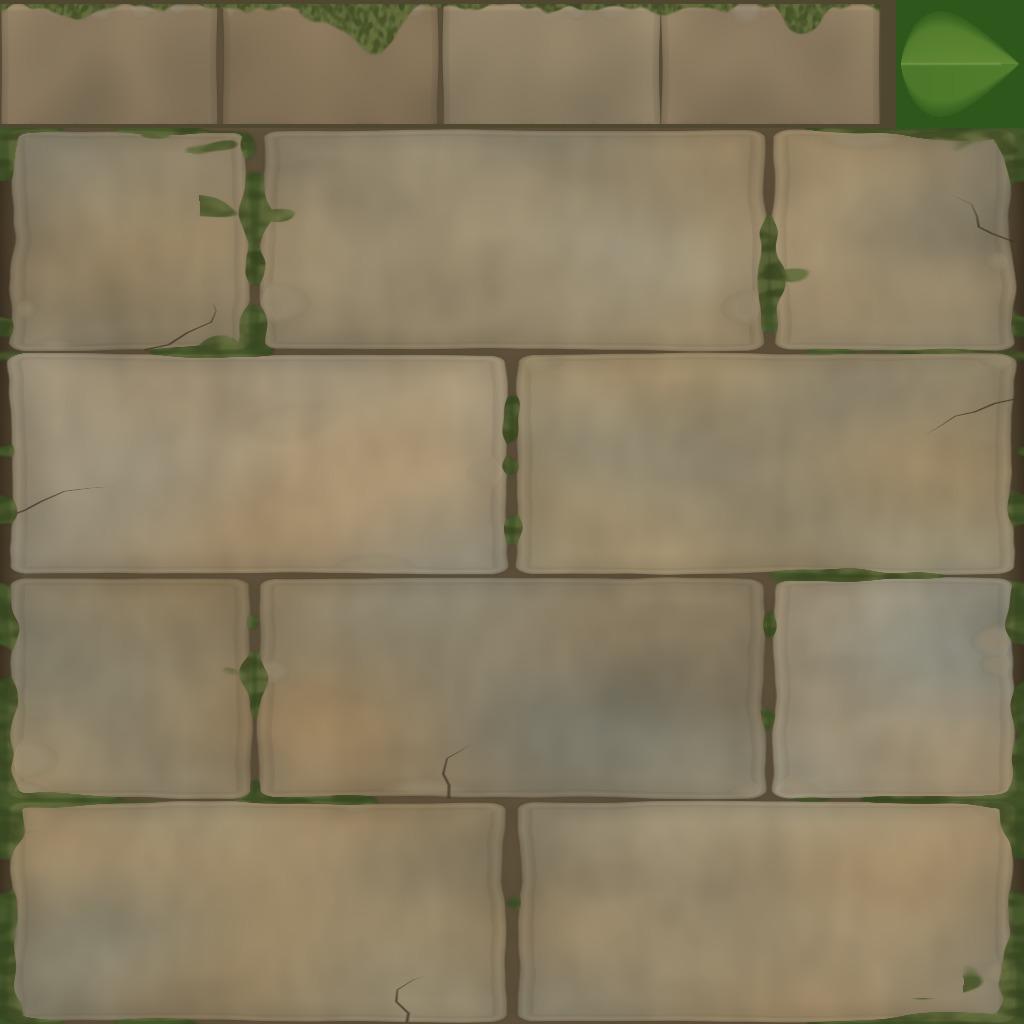
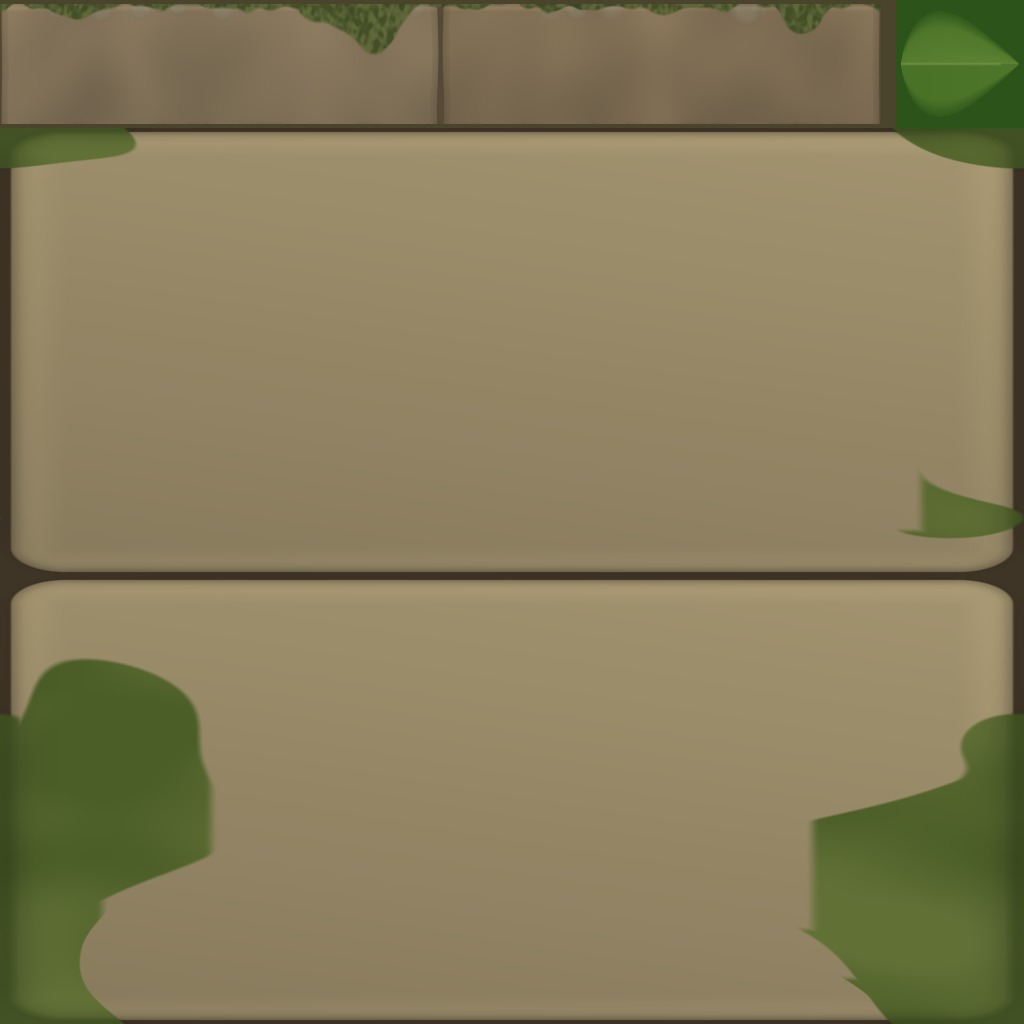
Dirección de arte limpia: losas grandes por carril, sol fijo en la pista con sombras de color, sol por mundo y virado partido

diff --git a/app/src/render/index.js b/app/src/render/index.js
@@ -26,10 +26,10 @@ const DEG = Math.PI / 180;
 const INV_FOG = new THREE.Color(0x0b0822);
 const BOOST_BLUE = new THREE.Color(0x3fb6ff).multiplyScalar(2);
 const GradeShader = {
-  uniforms: { tDiffuse: { value: null }, uBlur: { value: 0 }, uFlash: { value: new THREE.Vector4(1, 1, 1, 0) }, uVig: { value: 0.1 }, uCA: { value: 0.0 }, uVigCol: { value: new THREE.Color(0x2b2257) }, uTime: { value: 0 }, uSat: { value: 1.14 }, uCon: { value: 1.12 } },
+  uniforms: { tDiffuse: { value: null }, uBlur: { value: 0 }, uFlash: { value: new THREE.Vector4(1, 1, 1, 0) }, uVig: { value: 0.1 }, uCA: { value: 0.0 }, uVigCol: { value: new THREE.Color(0x2b2257) }, uTime: { value: 0 }, uSat: { value: 1.14 }, uCon: { value: 1.12 }, uLo: { value: new THREE.Color(0.95, 0.98, 1.07) }, uHi: { value: new THREE.Color(1.05, 1.0, 0.93) } },
   vertexShader: 'varying vec2 vUv; void main(){ vUv = uv; gl_Position = projectionMatrix * modelViewMatrix * vec4(position, 1.0); }',
   fragmentShader: /* glsl */`
-    uniform sampler2D tDiffuse; uniform float uBlur; uniform vec4 uFlash; uniform float uVig; uniform float uCA; uniform float uTime; uniform float uSat; uniform vec3 uVigCol; uniform float uCon;
+    uniform sampler2D tDiffuse; uniform float uBlur; uniform vec4 uFlash; uniform float uVig; uniform float uCA; uniform float uTime; uniform float uSat; uniform vec3 uVigCol; uniform float uCon; uniform vec3 uLo; uniform vec3 uHi;
     varying vec2 vUv;
     void main(){
       vec2 c = vec2(0.5, 0.52); vec2 d = vUv - c; float r = length(d);
@@ -42,6 +42,8 @@ const GradeShader = {
       vec3 col = acc / tot;
       float l = dot(col, vec3(0.2126, 0.7152, 0.0722)); col = mix(vec3(l), col, uSat);
       col = max(vec3(0.0), (col - 0.18) * uCon + 0.18);                 // contraste alrededor del gris medio (lineal)
+      // virado partido: sombras hacia el frío, luces hacia el cálido (luz de tarde estilizada)
+      col *= mix(uLo, uHi, smoothstep(0.03, 0.5, dot(col, vec3(0.2126, 0.7152, 0.0722))));
       col = mix(col, col * uVigCol * 1.6, uVig * smoothstep(0.35, 0.95, r * 1.25));
       col = mix(col, uFlash.rgb, uFlash.a);
       gl_FragColor = vec4(col, 1.0);
@@ -135,6 +137,9 @@ export class Renderer {
     u.uDark.value = (A.dark || 0) + ((B.dark || 0) - (A.dark || 0)) * t;
     styleUniforms.uShadowCol.value.set(A.shadow || 0x6d5fc4).lerp(new THREE.Color(B.shadow || 0x6d5fc4), t);
     styleUniforms.uRimCol.value.set(A.rim || 0xbfe8ff).lerp(new THREE.Color(B.rim || 0xbfe8ff), t);
+    // sol con el color de cada mundo (dorado, rosado, frío de noche…)
+    const ka = A.sunK || [1.15, 1, 0.8], kb = B.sunK || [1.15, 1, 0.8];
+    styleUniforms.uSunCol.value.setRGB(ka[0] + (kb[0] - ka[0]) * t, ka[1] + (kb[1] - ka[1]) * t, ka[2] + (kb[2] - ka[2]) * t);
     u.uInvBase.value.set(A.inv || 0x13112a).lerp(new THREE.Color(B.inv || 0x13112a), t);
     this.sky.setTheme(A, B, t);
     this.decor.setTheme(t < 0.5 ? A : B);
@@ -269,10 +274,17 @@ export class Renderer {
 
     // ---- mundo
     this.tunnel.uniforms.uCam.value.copy(cam.position);
-    // la luz principal va con la cámara (arriba, algo por detrás y a la izquierda): la cara por la
-    // que corres siempre queda bien iluminada, dentro o fuera del tubo
+    // sol fijo en el marco de la pista (arriba del tubo, algo a la izquierda y por detrás): el suelo
+    // recibe sol cálido y el techo queda en sombra fría de color, así las formas grandes (losas,
+    // biseles, arcos) tienen volumen y al girar alrededor del tubo cambia la luz. Una parte sigue a
+    // la cámara (la mitad dentro, el 80 % por fuera) para que la cara por la que corres no quede en
+    // sombra (legibilidad).
     const right = new THREE.Vector3().crossVectors(this.look, this.upS).normalize();
-    this.tunnel.uniforms.uKey.value.copy(this.upS).multiplyScalar(0.85).addScaledVector(this.look, -0.35).addScaledVector(right, -0.4).normalize();
+    const camKey = new THREE.Vector3().copy(this.upS).multiplyScalar(0.85).addScaledVector(this.look, -0.35).addScaledVector(right, -0.4).normalize();
+    const trackKey = new THREE.Vector3().copy(fr.U).multiplyScalar(0.8).addScaledVector(fr.X, -0.5).addScaledVector(fr.F, -0.3).normalize();
+    const outsideK = game.fold < 29 ? 0.8 : 0.5;         // por fuera, tu cara casi siempre al sol
+    this.keyFollow = this.keyFollow === undefined ? outsideK : this.keyFollow + (outsideK - this.keyFollow) * Math.min(1, dt * 1.5);
+    this.tunnel.uniforms.uKey.value.copy(trackKey).lerp(camKey, this.keyFollow).normalize();
     cam.updateMatrixWorld();
     styleUniforms.uSunDirV.value.copy(this.tunnel.uniforms.uKey.value).transformDirection(cam.matrixWorldInverse);
     const gapNear = game.gaps.some((g) => g.from - s < 34 && g.to - s > -6);

diff --git a/app/src/render/worlds.js b/app/src/render/worlds.js
@@ -2,19 +2,19 @@
 // Regla 2: el túnel siempre casi neutro, el color vivo es solo para los avisos.
 export const THEMES = [
   // Islas del cielo: piedra arenisca clara, musgo, cristales turquesa, cascadas y castillos
-  { name: 'Islas del cielo', base: 0xe8d5ad, base2: 0xbfa57a, seam: 0x6b5a3e, fog: 0xbfe0ff, glow: 0x5ff5e0, moss: 0x5fae3a, shadow: 0x9d8fe0, rim: 0xcfeeff,
+  { name: 'Islas del cielo', base: 0xe8d5ad, base2: 0xbfa57a, seam: 0x6b5a3e, fog: 0xbfe0ff, glow: 0x5ff5e0, moss: 0x5fae3a, shadow: 0x9d8fe0, rim: 0xcfeeff, sunK: [1.18, 1.0, 0.78],
     skyTop: 0x3f8fff, skyMid: 0xbfe0ff, skyBot: 0xf4f8ff, sun: 0xfff2c8, stars: 0, decor: 'sky', pano: 'islas' },
   // Selva: piedra más verde y húmeda, niebla verde azulada
-  { name: 'Selva perdida', base: 0xe2d8b8, base2: 0xb9ad86, seam: 0x4d5a36, fog: 0xbfe6d0, glow: 0x9dffb0, moss: 0x3f9a2e, shadow: 0x6f9fb8, rim: 0xd8ffe0,
+  { name: 'Selva perdida', base: 0xe2d8b8, base2: 0xb9ad86, seam: 0x4d5a36, fog: 0xbfe6d0, glow: 0x9dffb0, moss: 0x3f9a2e, shadow: 0x6f9fb8, rim: 0xd8ffe0, sunK: [1.1, 1.06, 0.8],
     skyTop: 0x4aa3d8, skyMid: 0xbfe6d0, skyBot: 0xe8f6e4, sun: 0xfff6d0, stars: 0, decor: 'sky', pano: 'selva' },
   // Noche bioluminiscente: piedra oscura, juntas y cristales cian que brillan
-  { name: 'Noche de luciérnagas', base: 0xd8d4e8, base2: 0xa9a4c4, seam: 0x2a2a50, fog: 0x1c2a5e, glow: 0x3ff5e0, moss: 0x2f8f7a, shadow: 0x1a2a60, rim: 0x5ff5e0,
+  { name: 'Noche de luciérnagas', base: 0xd8d4e8, base2: 0xa9a4c4, seam: 0x2a2a50, fog: 0x1c2a5e, glow: 0x3ff5e0, moss: 0x2f8f7a, shadow: 0x1a2a60, rim: 0x5ff5e0, sunK: [0.8, 0.95, 1.15],
     skyTop: 0x060a26, skyMid: 0x1c2a5e, skyBot: 0x2f5a7a, sun: 0xbff8ff, stars: 1, decor: 'neon', dark: 1, inv: 0x151b36, pano: 'noche' },
   // Templo al atardecer: arenisca dorada, luz naranja
-  { name: 'Templo del ocaso', base: 0xf6dcb0, base2: 0xd6a978, seam: 0x7a4a2e, fog: 0xff9f7a, glow: 0xffd27a, moss: 0x8aa83a, shadow: 0xa86fa8, rim: 0xffd8a0,
+  { name: 'Templo del ocaso', base: 0xf6dcb0, base2: 0xd6a978, seam: 0x7a4a2e, fog: 0xff9f7a, glow: 0xffd27a, moss: 0x8aa83a, shadow: 0xa86fa8, rim: 0xffd8a0, sunK: [1.26, 0.94, 0.72],
     skyTop: 0x6a4bc4, skyMid: 0xff9f7a, skyBot: 0xffd8a0, sun: 0xffb060, stars: 0.1, decor: 'sky', pano: 'templo' },
   // Volcán: piedra oscura rojiza con vetas de lava
-  { name: 'Islas de fuego', base: 0xe8d0c0, base2: 0xb89080, seam: 0x4a2020, fog: 0x8a3040, glow: 0xff8a3d, moss: 0x7a5a2a, shadow: 0x4a1a40, rim: 0xff9a60,
+  { name: 'Islas de fuego', base: 0xe8d0c0, base2: 0xb89080, seam: 0x4a2020, fog: 0x8a3040, glow: 0xff8a3d, moss: 0x7a5a2a, shadow: 0x4a1a40, rim: 0xff9a60, sunK: [1.25, 0.86, 0.72],
     skyTop: 0x2a1030, skyMid: 0x8a3040, skyBot: 0xff8a50, sun: 0xffb070, stars: 0.3, decor: 'space', dark: 1, inv: 0x2a1418, pano: 'volcan' },
 ];
 

diff --git a/app/src/render/stylize.js b/app/src/render/stylize.js
@@ -10,7 +10,7 @@ export const styleUniforms = {
   uSunCol: { value: new THREE.Color(1.15, 1.0, 0.8) },    // sol dorado (concepto C·3)
   uShadowCol: { value: new THREE.Color(0x6d5fc4) },
   uRimCol: { value: new THREE.Color(0xbfe8ff) },
-  uStyl: { value: 0.8 },
+  uStyl: { value: 0.9 },
 };
 
 // Encadena con un onBeforeCompile previo (si lo hay).
@@ -26,9 +26,13 @@ export function stylize(mat, { rim = 0.35, key = 'st' } = {}) {
   vec3 Nv = normalize(normal); vec3 Vv = normalize(vViewPosition);
   float ndl = dot(Nv, normalize(uSunDirV));
   // en un túnel el techo recibe mucha luz rebotada: la sombra no llega nunca al tono puro
-  float sh = smoothstep(0.3, -0.45, ndl) * 0.7;
+  float sh = smoothstep(0.35, -0.35, ndl) * 0.85;
   vec3 base = diffuseColor.rgb;
-  vec3 st = mix(base * uSunCol, base * uShadowCol, sh);
+  // cara al sol: cálida y algo más brillante cuanto más de frente (da volumen a biseles y losas)
+  // sombra con color propio (no solo más oscura): el tono frío del mundo tiñe también la luz
+  // ambiente, como en la ilustración estilizada
+  vec3 shade = base * uShadowCol * 1.02 + uShadowCol * 0.09;
+  vec3 st = mix(base * uSunCol * (0.9 + 0.3 * max(ndl, 0.0)), shade, sh);
   #ifdef USE_AOMAP
   st *= mix(1.0, ambientOcclusion, 0.85);
   #endif

diff --git a/tools/blender/build_tunnel_kit.py b/tools/blender/build_tunnel_kit.py
@@ -52,10 +52,10 @@ JE = [-HW, -0.345, 0.345, HW]     # juntas hiladas pares
 JO = [-HW, -0.69, 0.0, 0.69, HW]  # juntas hiladas impares (aparejo a soga)
 # sillería de la textura: losas grandes, una por carril y hilada (el concepto C·3); a ladrillitos
 # se leía recargado a toda velocidad. La geometría sigue usando CL (ventanas y cristales).
-TNC = 4
-TCL = L / TNC                     # 1 m por hilada
-TJE = [-HW, 0.0, HW]              # dos sillares por carril, a soga
-TJO = [-HW, -0.52, 0.52, HW]
+TNC = 2
+TCL = L / TNC                     # 2 m por losa (stone_top_formas; también recortes de las cajas)
+TJE = [-HW, HW]                   # una losa por carril
+TJO = [-HW, HW]
 G = 0.024                         # media llaga (referencia)
 GI, GS = 0.011, 0.022             # media llaga interior / en la costura de carril
 
@@ -408,6 +408,67 @@ def stone_top(seed=11):
     return A, N, AO, R
 
 
+def stone_top_formas(seed=11):
+    """Cara superior en "formas grandes" (dirección de arte limpia, a lo Alto / Mario Kart): una
+    losa por carril y hilada de 2 m, bisel ancho y redondo que pilla la luz, degradado suave en
+    cada losa, junta honda con oclusión marcada y musgo en manchas grandes pegadas a las juntas.
+    Sin grietas, desconchones ni ruido fino: a 100 m/s el detalle menudo solo se ve borroso o
+    hace ruido. Misma disposición del atlas que stone_top()."""
+    NX, NZr = RES, NZ
+    dx, dz = W / NX, L / NZr
+    X = -HW + (np.arange(NX) + 0.5) * dx
+    Z = (np.arange(NZr) + 0.5) * dz
+    XX, ZZ = np.meshgrid(X, Z)
+    XX = XX.astype(np.float32)
+    ZZ = ZZ.astype(np.float32)
+    rng = np.random.default_rng(seed)
+    shape = XX.shape
+    FL = L / 2                                        # 2 m por losa
+    course = np.floor(ZZ / FL).astype(np.int32) % 2
+    cz = (course + 0.5) * FL
+    lx, lz = XX, ZZ - cz
+    ax, az = HW - GS, FL / 2 - GI * 1.6
+    e = -rrect(lx, lz, ax, az, 0.11)                  # distancia al borde (m), > 0 dentro
+    bw = 0.10                                         # bisel ancho
+    t = np.clip(e / bw, 0, 1)
+    prof = np.sqrt(1 - (1 - t) ** 2)                  # canto redondo
+    tilt = rng.uniform(-0.004, 0.004, 2)
+    top = 0.014 + 0.006 * (1 - (lx / ax) ** 2) * (1 - (lz / az) ** 2) + tilt[course] * lz
+    GR = -0.03
+    H = np.where(e > 0, GR + (top - GR) * prof, GR).astype(np.float32)
+
+    # musgo: manchas grandes que nacen en las juntas y lamen un poco la losa
+    nm = pnoise(shape, dx, dz, 0.9, seed + 5)
+    nm2 = pnoise(shape, dx, dz, 0.35, seed + 6)
+    F = 0.9 * nm + 0.35 * nm2 - 0.2
+    # bordes nítidos (forma gráfica, no mancha borrosa)
+    moss = sstep(0.8, 0.84, F) * sstep(0.2, 0.17, e)
+    moss = np.maximum(moss, sstep(1.25, 1.3, nm) * sstep(0.42, 0.39, e))   # alguna lengua más larga
+    H = lerp(H, np.maximum(H, GR + 0.02), moss).astype(np.float32)
+
+    # albedo: arenisca clara, cada losa con su tono y un degradado suave; canto más claro
+    pal = np.stack([srgb(c) for c in ('#e3cf9f', '#dcc796', '#e6d4a8')])
+    pidx = rng.integers(0, len(pal), 2)
+    base = pal[pidx[course]]
+    grad = 1 + 0.07 * (lz / az) + 0.025 * (lx / ax)
+    A = base * grad[..., None]
+    edge = sstep(0.0, 0.03, e) * sstep(bw + 0.02, 0.02, e)
+    A = A * (1 + 0.10 * edge)[..., None]
+    grout = srgb('#6b5a41')
+    A = lerp(A, grout, sstep(0.004, -0.004, e)[..., None])
+    moss_c = lerp(srgb('#6f8a3a'), srgb('#8fa650'), np.clip(0.5 + 0.35 * nm2, 0, 1)[..., None])
+    moss_c = lerp(moss_c, srgb('#55702c'), sstep(0.02, -0.01, e)[..., None] * 0.6)
+    A = lerp(A, moss_c, moss[..., None])
+    R = np.where(e < 0, 0.95, 0.78).astype(np.float32)
+    R = lerp(R, 0.92, moss)
+
+    N = normals_from_height(H, dx, dz)
+    AO = horizon_ao(H, dx, dz, radius=0.14)
+    AO = np.clip(AO * (0.75 + 0.25 * sstep(-0.01, 0.06, e)), 0, 1)       # junta honda y oscura
+    A = A * (0.7 + 0.3 * AO)[..., None]
+    return A.astype(np.float32), N, AO, R
+
+
 def stone_strip(seed=23):
     """Franja de jambas/laterales: s a lo largo de la vía (4 m), p por el perfil de la jamba."""
     NXs = int(round(STRIP_U * RES))
@@ -490,7 +551,7 @@ def build_stone_textures():
     AO = np.full((RES, RES), 0.6, np.float32)
     R = np.full((RES, RES), 0.92, np.float32)
     A[:] = srgb('#6f6443')
-    a, n, ao, r = stone_top()
+    a, n, ao, r = stone_top_formas()
     A[:NZ], N[:NZ], AO[:NZ], R[:NZ] = a, n, ao, r
     a, n, ao, r, nxs, rows = stone_strip()
     r0 = NZ + PAD
@@ -1124,7 +1185,7 @@ def join_into(target, others):
 
 
 # ------------------------------------------------------------------ cajas
-BOX_BLOCKS = [(0, 0), (0, 1), (2, 0), (2, 1), (0, 1), (2, 0)]   # hiladas sin hiedra   # (hilada, bloque) de la textura
+BOX_BLOCKS = [(0, 0), (1, 0), (0, 0), (1, 0), (0, 0), (1, 0)]   # (hilada, bloque) de la textura
 
 
 def block_rect(course, k):
